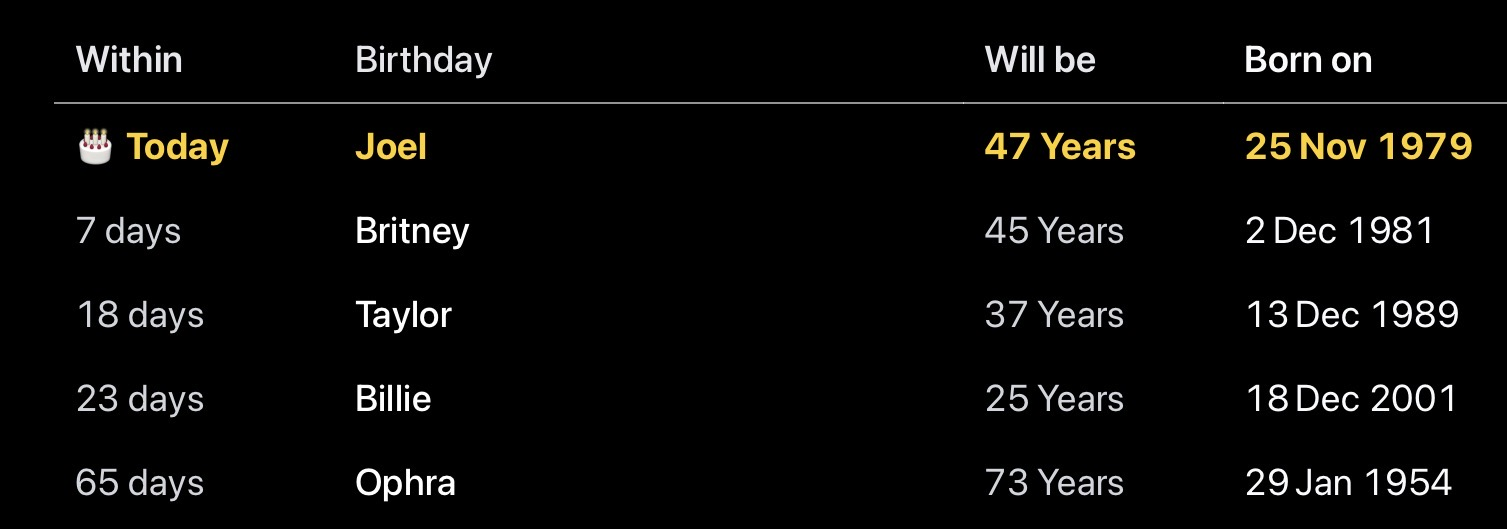
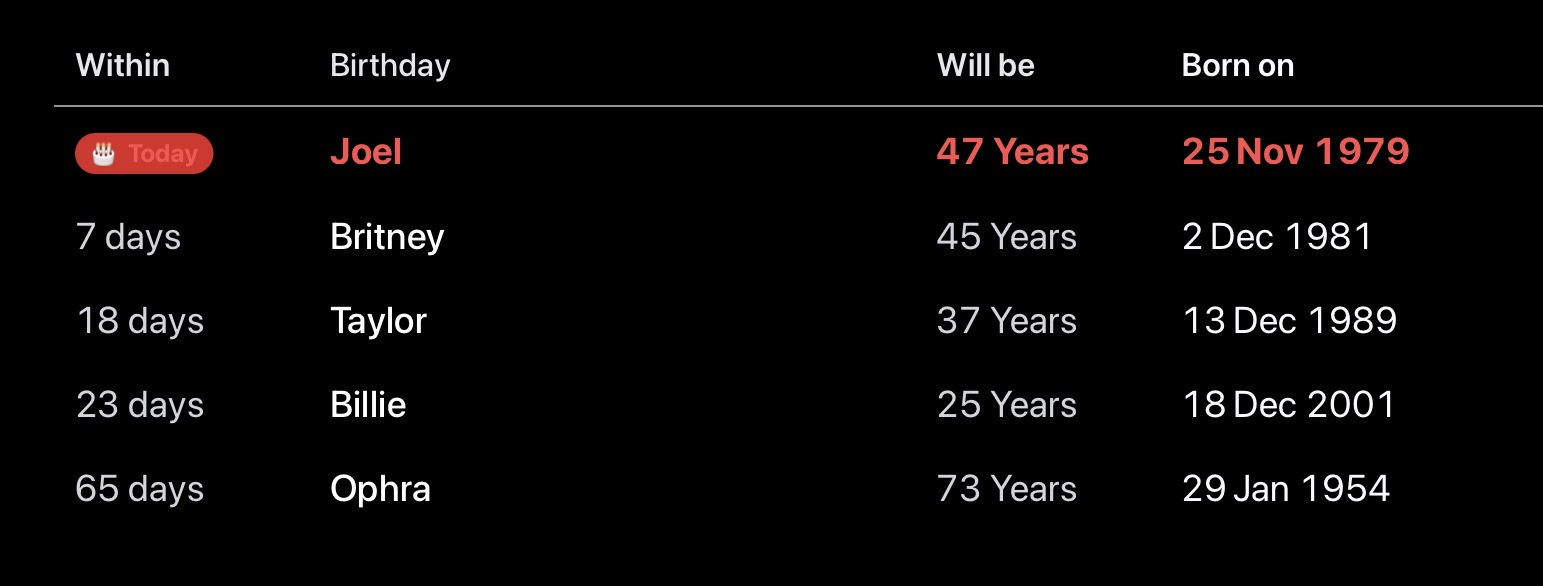
Revert MMM-Birthdays back to 6fad118 (7 hours ago)

diff --git a/MMM-Birthdays.js b/MMM-Birthdays.js
@@ -19,8 +19,11 @@ Module.register("MMM-Birthdays", {
     return ["MMM-Birthdays.css"];
   },
 
-  getScripts: function () {
-    return ["locales/en.js", "locales/nl.js"];
+  getTranslations: function () {
+    return {
+      en: "locales/en.js",
+      nl: "locales/nl.js"
+    };
   },
 
   start: function () {
@@ -56,52 +59,19 @@ Module.register("MMM-Birthdays", {
     return { year, month: month - 1, day };
   },
 
-  getLocaleObject: function () {
-    const locales = typeof window !== "undefined" && window.MMMBirthdaysLocales
-      ? window.MMMBirthdaysLocales
-      : {};
-
-    const rawLang =
-      (typeof config !== "undefined" && config && config.language) ||
-      (typeof window !== "undefined" && window.config && window.config.language) ||
-      (this.config && this.config.language) ||
-      (typeof document !== "undefined" && document.documentElement && document.documentElement.lang) ||
-      (typeof navigator !== "undefined" && navigator.language) ||
-      "";
-
-    const lang = String(rawLang).toLowerCase().slice(0, 2);
-
-    if (lang && locales[lang]) {
-      return locales[lang];
-    }
-    return locales.nl || locales.en || {};
-  },
-
   getLabel: function (key) {
-    const locale = this.getLocaleObject();
-    const aliasMap = {
-      headerDays: ["headerDays", "headerWithin"],
-      headerName: ["headerName"],
-      headerAge: ["headerAge", "headerWillBe"],
-      headerDate: ["headerDate", "headerBirthday"]
-    };
-    const candidates = aliasMap[key] || [key];
-
-    for (const k of candidates) {
-      if (locale[k] !== undefined && locale[k] !== "") {
-        return locale[k];
-      }
+    const translated = this.translate(key);
+    if (translated && translated !== key) {
+      return translated;
     }
-
     return this.config[key] || key;
   },
 
   getMonths: function () {
-    const locale = this.getLocaleObject();
-    if (Array.isArray(locale.months) && locale.months.length === 12) {
-      return locale.months;
+    const translatedMonths = this.translate("months");
+    if (Array.isArray(translatedMonths) && translatedMonths.length === 12) {
+      return translatedMonths;
     }
-
     return this.config.months;
   },
 

diff --git a/MMM-Birthdays.css b/MMM-Birthdays.css
@@ -11,12 +11,12 @@
 .mmm-birthdays .mmm-birthdays-table th.date {
   text-align: left !important;
   font-weight: 600;
-  padding: 15px 21px 21px 21px;
-  border-bottom: 1.5px solid rgba(255, 255, 255, 0.35);
+  padding: 6px 14px 10px 14px;
+  border-bottom: 1px solid rgba(255, 255, 255, 0.35);
 }
 
 .mmm-birthdays .mmm-birthdays-table tbody td {
-  padding: 19.5px 21px;
+  padding: 8px 14px;
   vertical-align: middle;
 }
 
@@ -31,12 +31,15 @@
 .mmm-birthdays .mmm-birthdays-table .bday-num {
   display: inline-block;
   min-width: 1.5em;
-  text-align: right;
-  margin-right: 10px;
+  margin-right: 4px;
 }
 
 .mmm-birthdays .mmm-birthdays-table .bday-month {
-  margin-right: 9px;
+  margin-right: 6px;
+}
+
+.mmm-birthdays .mmm-birthdays-table .num-single {
+  font-weight: 600;
 }
 
 .mmm-birthdays .mmm-birthdays-table tr.is-today,
@@ -46,14 +49,17 @@
 .mmm-birthdays .mmm-birthdays-table tr.is-today td.age,
 .mmm-birthdays .mmm-birthdays-table tr.is-today td.date,
 .mmm-birthdays .mmm-birthdays-table tr.is-today span {
-  color: #ffd000 !important;
+  color: #ff4d4f !important;
   font-weight: 700;
 }
 
 .mmm-birthdays .mmm-birthdays-table tr.is-today .today-badge {
   display: inline-flex;
   align-items: center;
-  gap: 9px;
-  color: #ffd000 !important;
+  gap: 6px;
+  padding: 2px 8px;
+  border-radius: 999px;
+  background: #dc2626;
+  color: #ffffff !important;
   font-weight: 700;
 }
